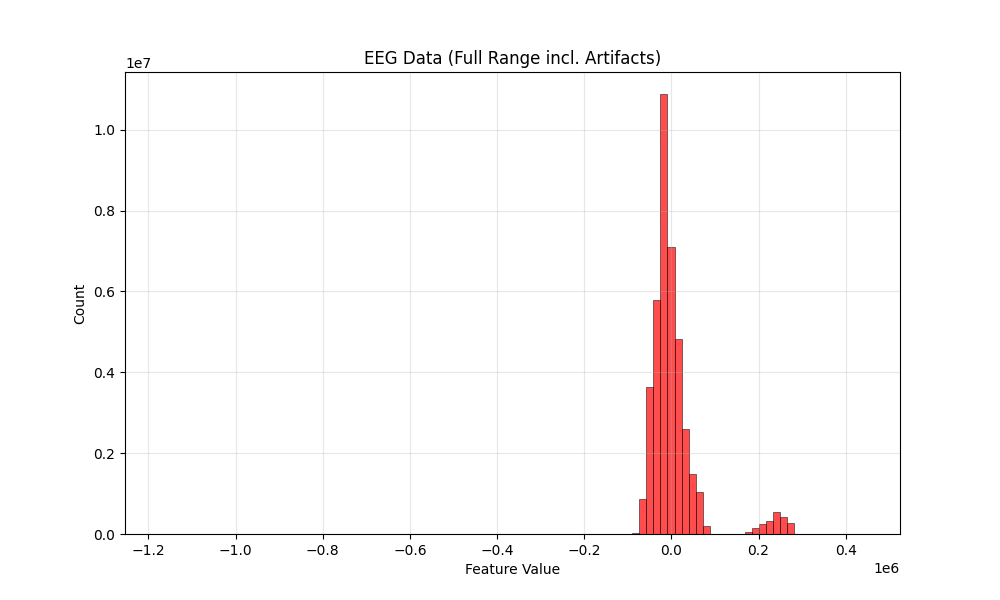
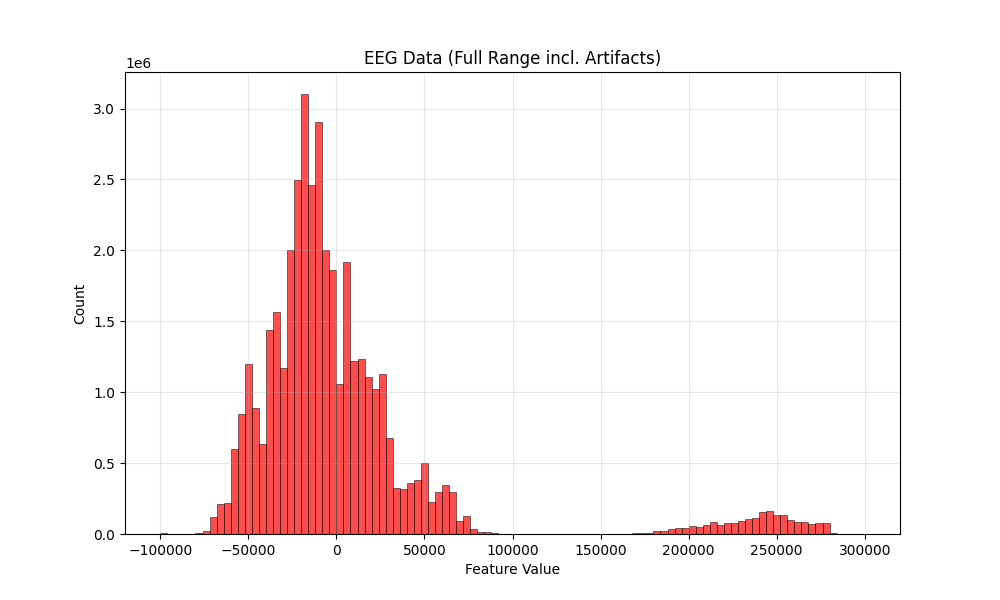
preprocess data

diff --git a/dataset.py b/dataset.py
@@ -28,9 +28,14 @@ class BrainWaveIntentDataset(IterableDataset):
     
     def _preprocess(self, feature_eeg, feature_moments, label):
         
-        feature_eeg = torch.nan_to_num(torch.tensor(feature_eeg), nan=0.0)
+        feature_eeg = torch.tensor(feature_eeg)
+        feature_eeg = torch.nan_to_num(feature_eeg, nan=0.0)
+        feature_eeg = torch.clamp(feature_eeg, -100000, 300000)
+
         feature_moments = torch.tensor(feature_moments)
-        
+        feature_moments[:, :, :, :, 1] = torch.clamp(feature_moments[:, :, :, :, 1], 1750, 3250)
+        feature_moments[:, :, :, :, 2] = torch.clamp(feature_moments[:, :, :, :, 2], 75000, 300000)
+
         return {
             "feature_eeg": feature_eeg,
             "feature_moments": feature_moments,
